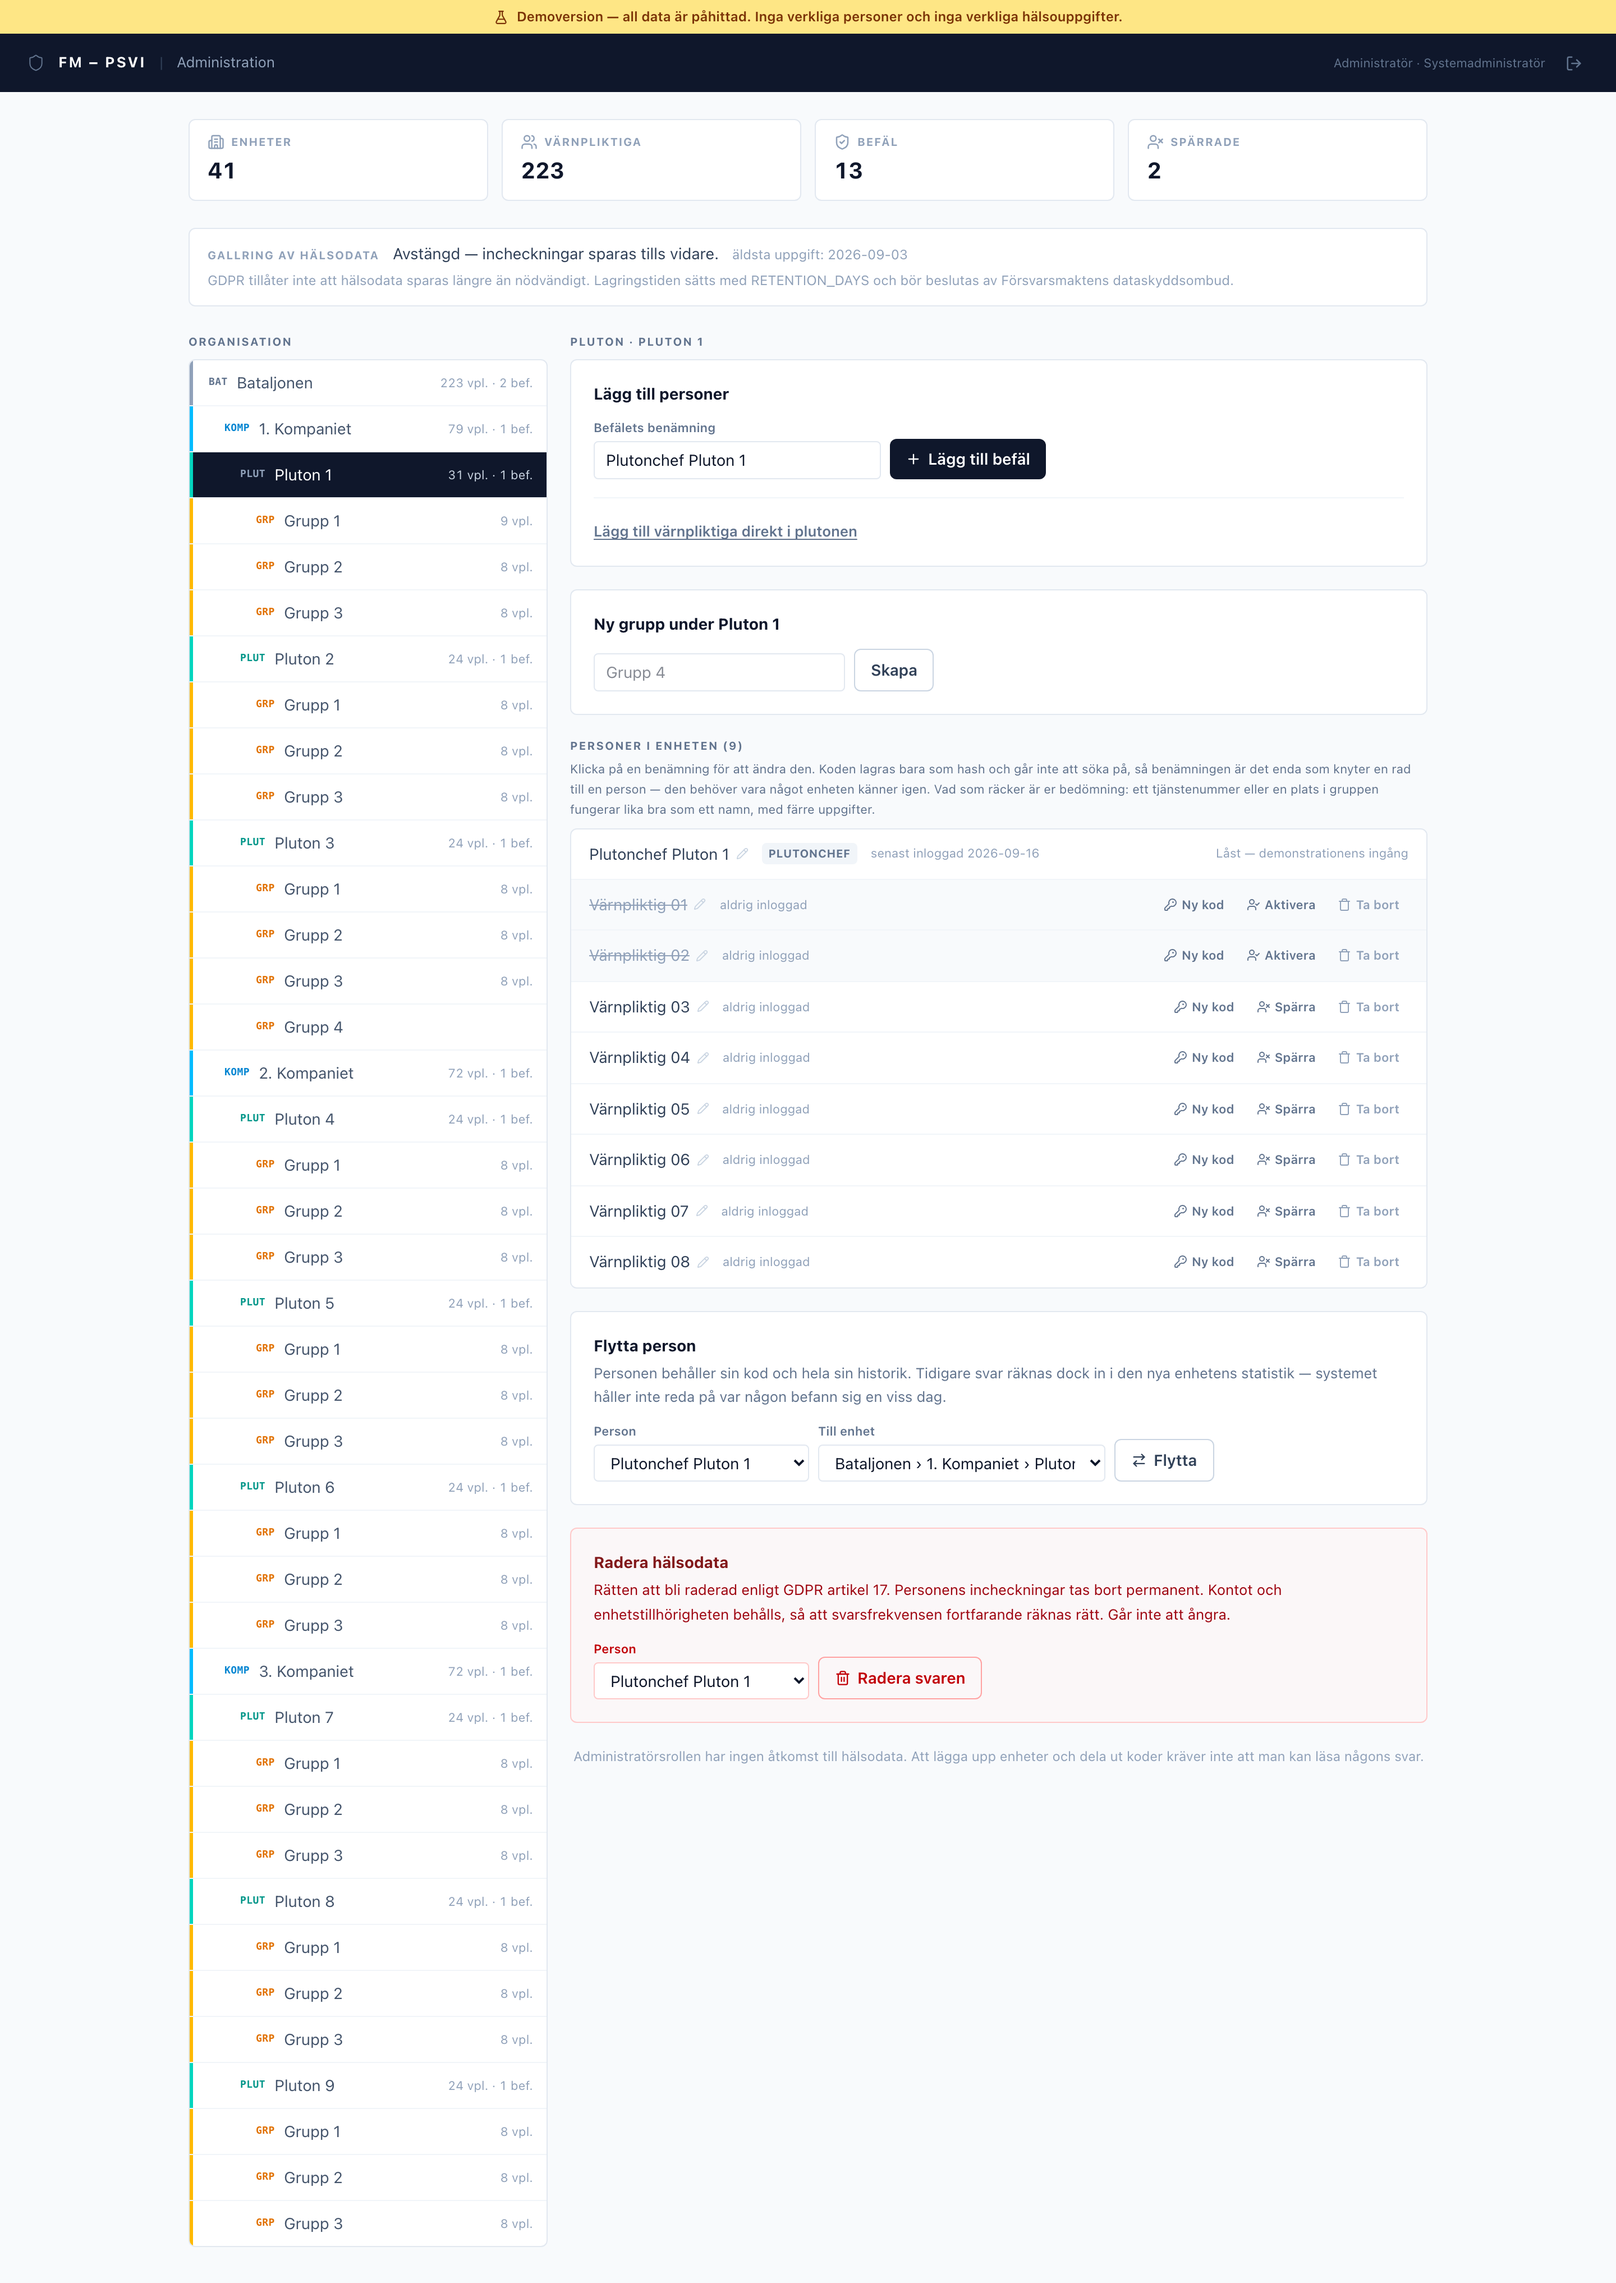
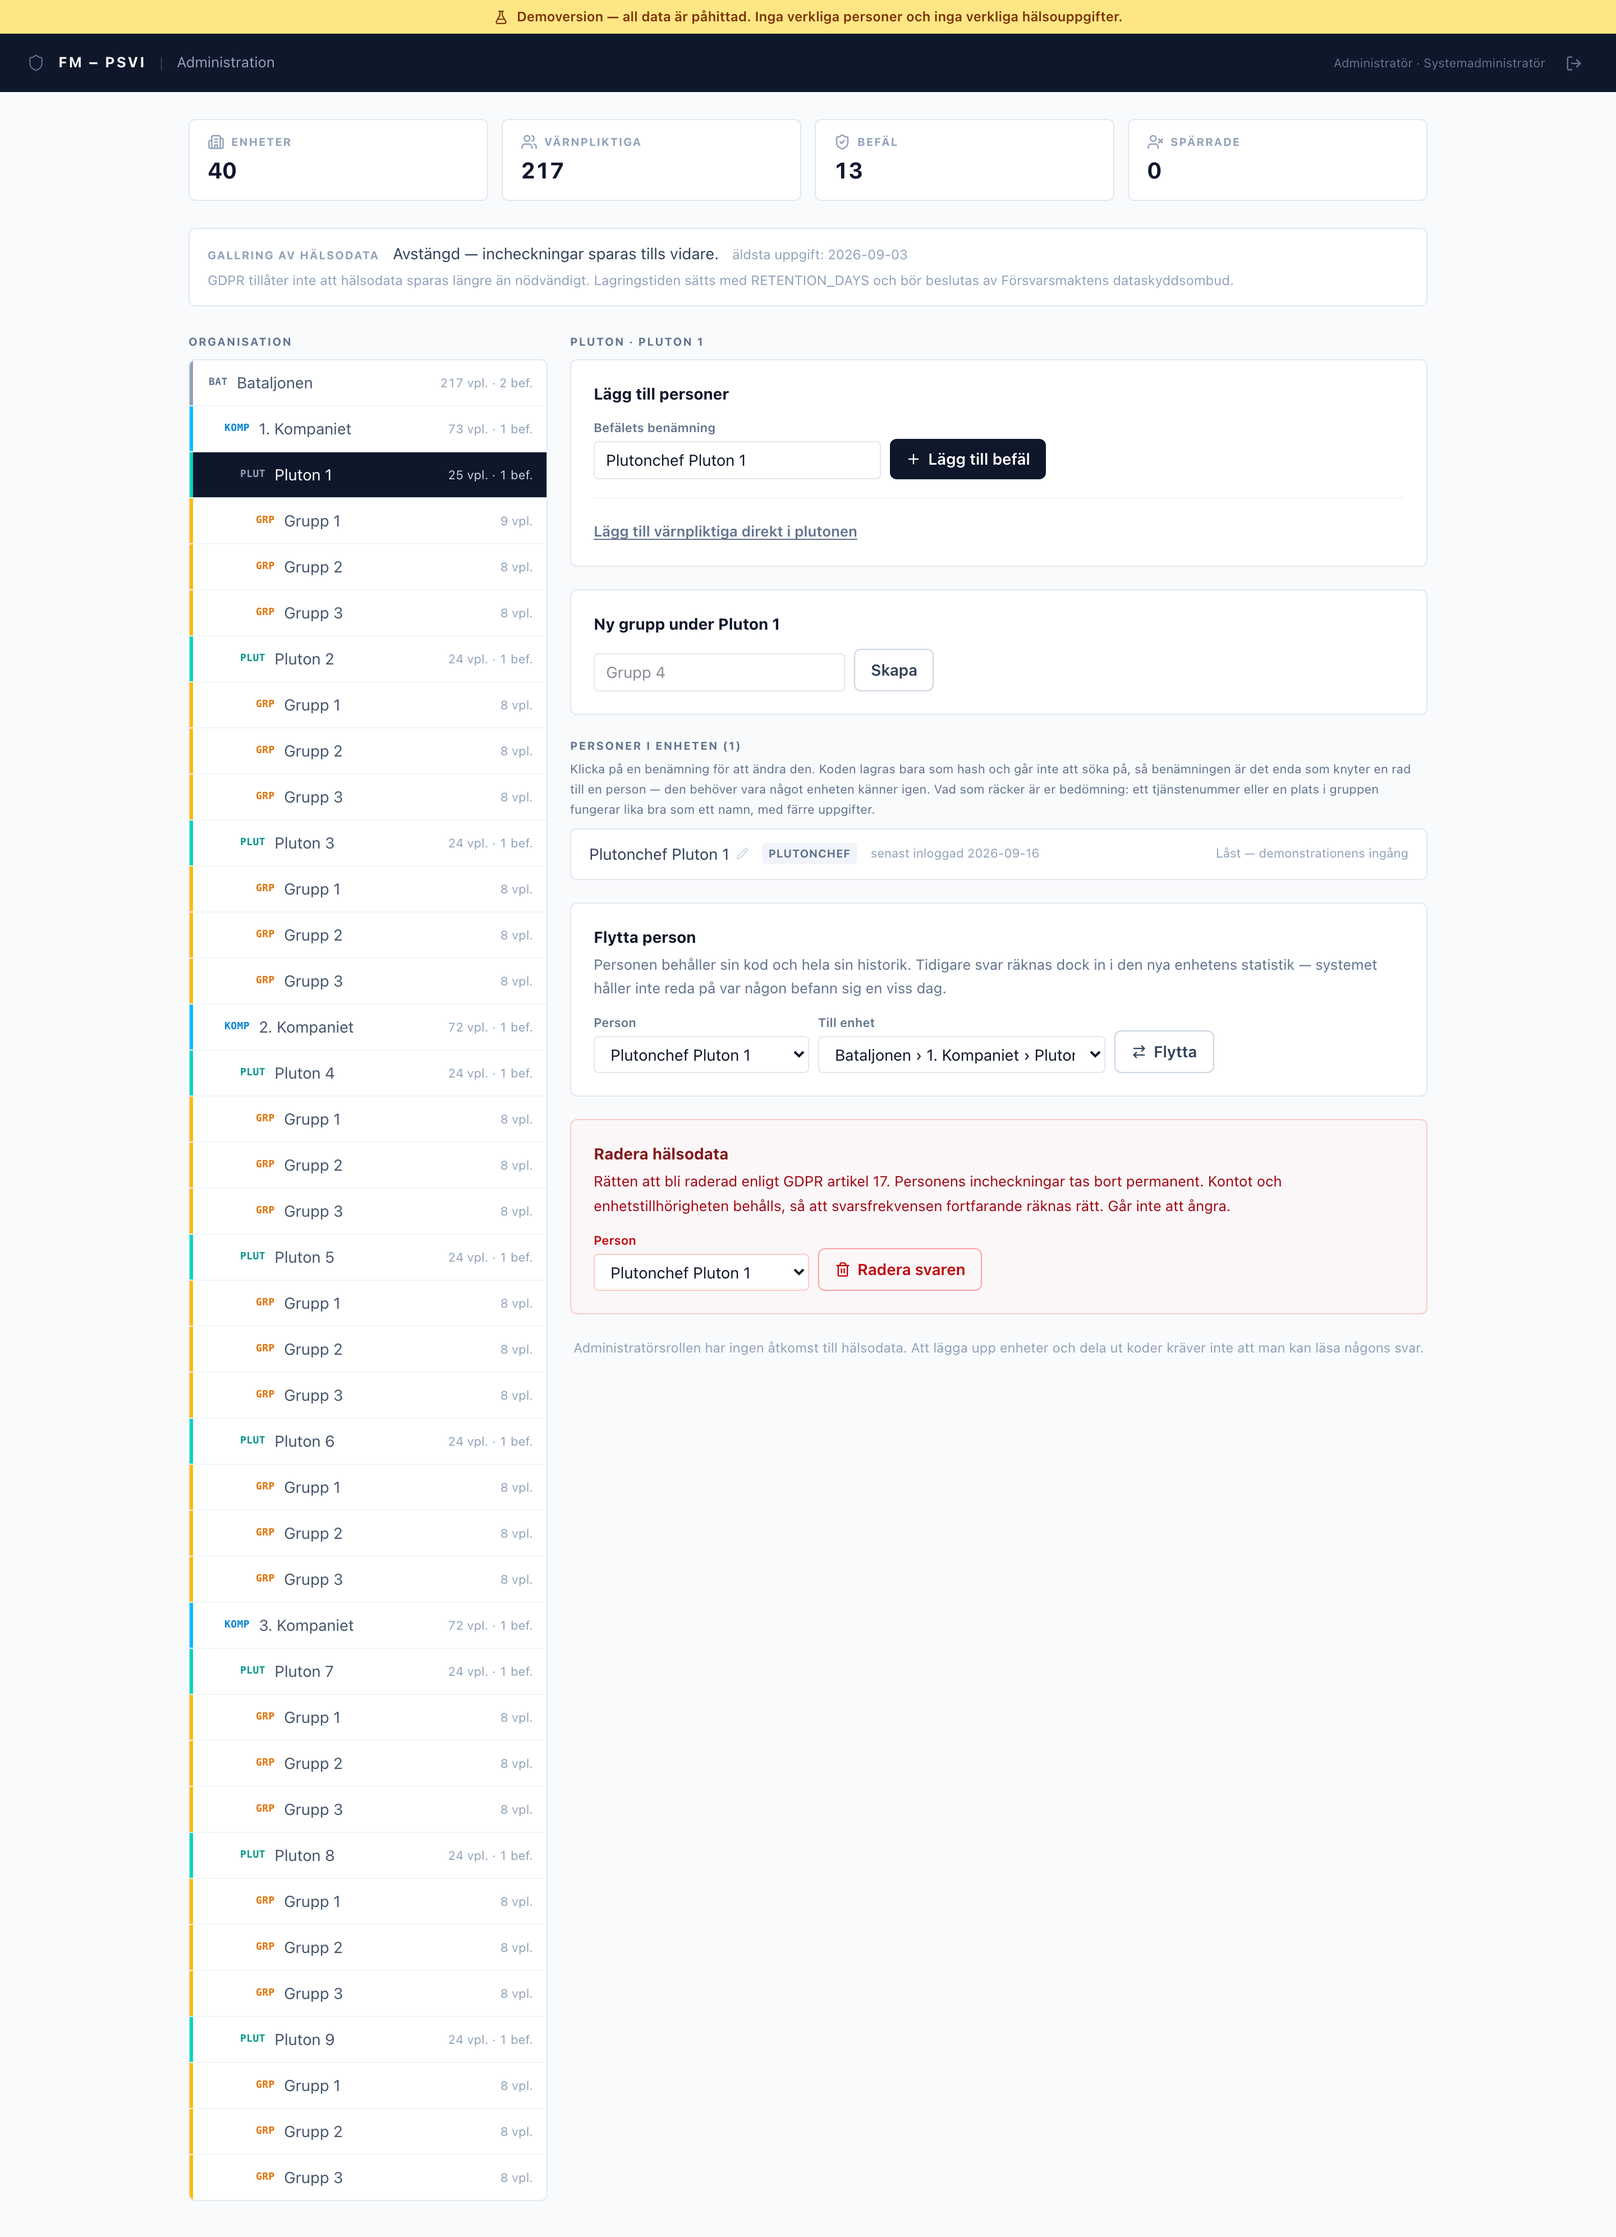
Clear the test residue out of the demo data before recording
Two untidy things were visible on camera: two struck-through conscripts
in Pluton 1 and an empty group. Looking at them turned up more than was
described.

Both blocked accounts sat above the seeded id range, so they were
created while testing rather than seeded — and so were six others
beside them. All eight sat directly in Pluton 1 rather than in a group,
had never logged in, and had no check-ins at all. They were dragging
the platoon's response rate down to 55% (17 of 31) when the real figure
among people who can actually answer was 68% (17 of 25). Reactivating
the two, as offered, would have made that worse rather than better, so
all eight are gone. Nothing was attached to them and the admin page can
recreate them in seconds.

Värnpliktig 09 stays. She is the one who requested a conversation, and
deleting her would have taken the "En soldat vill prata med dig" notice
out of the leader view — the thing the script points at.

The empty group is deleted too. Worth noting that this needed direct
database access: an admin can create a unit but not remove one. That is
the same asymmetry that was fixed for people a few commits ago, still
present for units, and it will bite again the first time someone
creates a group by accident during a demo.

Removing the eight also removed the "Direkt i enheten" row the script
used to demonstrate k-anonymity, so that beat now states the rule while
the ranking table is on screen instead of pointing at a suppressed row.
[…]

diff --git a/underlag/genomgang.html b/underlag/genomgang.html
@@ -547,8 +547,12 @@
             <p class="say">Här jämförs grupperna mot varandra — en kurva per grupp, och man kan växla mellan sju, fjorton och tjugoen dagar. Och en profil per grupp, där man väljer vilka kategorier man vill jämföra.</p>
           </div>
           <div class="beat">
-            <p class="do">Skrolla till tabellen <b>Rangordning</b>. Peka på den nedersta raden, <i>Direkt i enheten</i>.</p>
-            <p class="say">Men titta på den nedersta raden. Där står <em>Underlag saknas</em> i stället för siffror. Det krävs minst fyra svar innan något visas överhuvudtaget — har för få svarat får befälet ingenting, för då skulle ett snitt i praktiken kunna avslöja en enskild person.</p>
+            <p class="do">Skrolla till tabellen <b>Rangordning</b>.</p>
+            <p class="say">Här ligger grupperna mot varandra — svarsfrekvens, hur många som är gröna, gula och röda, och snittet.</p>
+          </div>
+          <div class="beat">
+            <p class="do">Stanna kvar på tabellen.</p>
+            <p class="say">Och en sak som inte syns här, just därför att den fungerar: <em>det krävs minst fyra svar i en grupp innan någonting visas.</em> Har färre svarat får befälet en tom rad i stället för siffror — för med två eller tre svar skulle ett snitt i praktiken kunna avslöja en enskild person. Här har alla tre grupper svarat, så allt syns.</p>
           </div>
         </div>
       </li>

diff --git a/src/app/page.tsx b/src/app/page.tsx
@@ -74,12 +74,17 @@ export default async function LoginPage({
                   </div>
                 ))}
               </div>
+              {/*
+                Ingen uppräkning av vilka koder som råkar vara obesvarade. Vilka
+                det är ändras så fort någon provar demon, och en sida som lovar
+                fel sak är sämre än en som säger hur det fungerar.
+              */}
               <p className="mt-3 border-t border-slate-200 pt-3 text-[11px] leading-relaxed text-slate-500">
-                Dagens rapport är obesvarad för{' '}
+                Vill du prova själva incheckningen, använd en kod i serien{' '}
                 <span className="font-mono text-slate-700">P1G1-01</span> till{' '}
-                <span className="font-mono text-slate-700">P1G1-08</span>, så flera
-                kan prova incheckningen samtidigt utan att krocka. Övriga värnpliktiga
-                har redan svarat idag och visar översikten i stället.
+                <span className="font-mono text-slate-700">P1G1-08</span>. Har den
+                koden redan rapporterat idag visas översikten i stället — ta då
+                nästa kod i ordningen.
               </p>
             </div>
           )}

diff --git a/underlag/manus-inspelning.md b/underlag/manus-inspelning.md
@@ -72,7 +72,8 @@ Det här är avsnittet som betyder mest. Ta god tid.
 | Peka på raden längst ned. | "Men lägg märke till det här: *du ser endast sammanställd data. Enskilda värnpliktigas svar visas aldrig för befäl.* Det är inte en inställning som går att slå av — det är byggt så." |
 | Klicka på **Jämförelse**. | "Här jämförs grupperna mot varandra — en kurva per grupp, och man kan växla mellan sju, fjorton och tjugoen dagar." |
 | Peka på spindeldiagrammet och knapparna ovanför det. | "Och en profil per grupp, där man kan välja vilka kategorier man vill jämföra." |
-| Skrolla till tabellen **Rangordning**. Peka på den nedersta raden, *Direkt i enheten*. | "Men titta på den nedersta raden. Där står *Underlag saknas* i stället för siffror. Det krävs minst fyra svar innan något visas överhuvudtaget — har för få svarat får befälet ingenting, för då skulle ett snitt i praktiken kunna avslöja en enskild person." |
+| Skrolla till tabellen **Rangordning**. | "Här ligger grupperna mot varandra — svarsfrekvens, hur många som är gröna, gula och röda, och snittet." |
+| Stanna kvar på tabellen. | "Och en sak som inte syns här, just därför att den fungerar: det krävs minst fyra svar i en grupp innan någonting visas. Har färre svarat får befälet en tom rad i stället för siffror — för med två eller tre svar skulle ett snitt i praktiken kunna avslöja en enskild person. Här har alla tre grupper svarat, så allt syns." |
 
 ## 6 · Administration och avslutning (30 sekunder)
 
